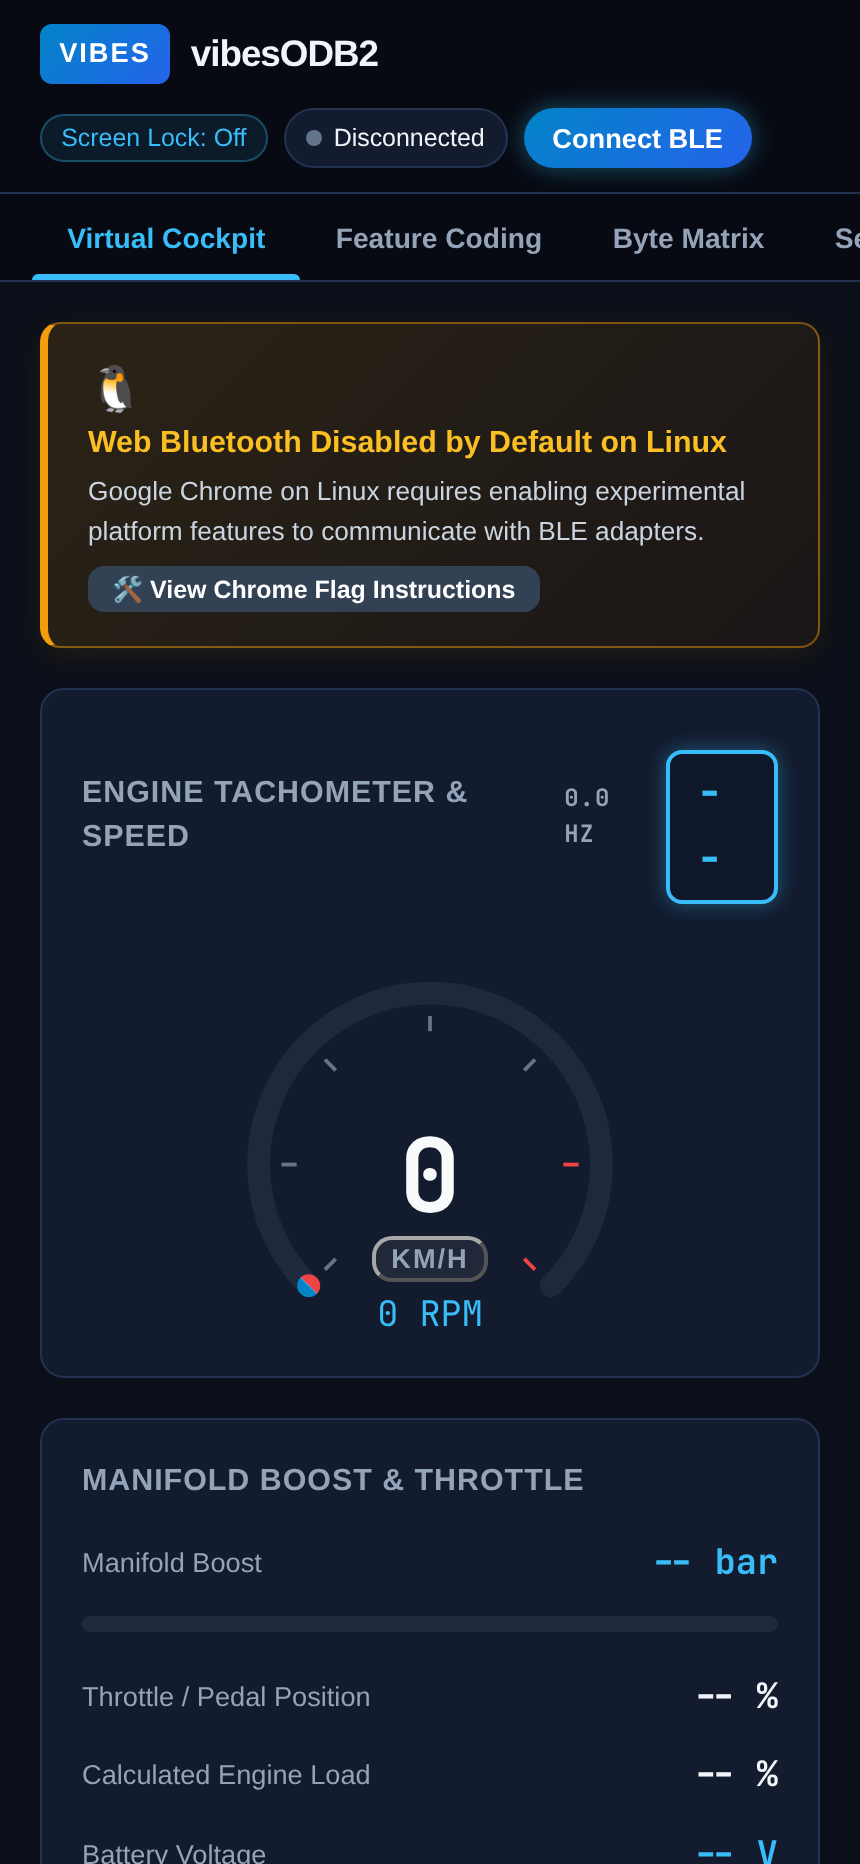
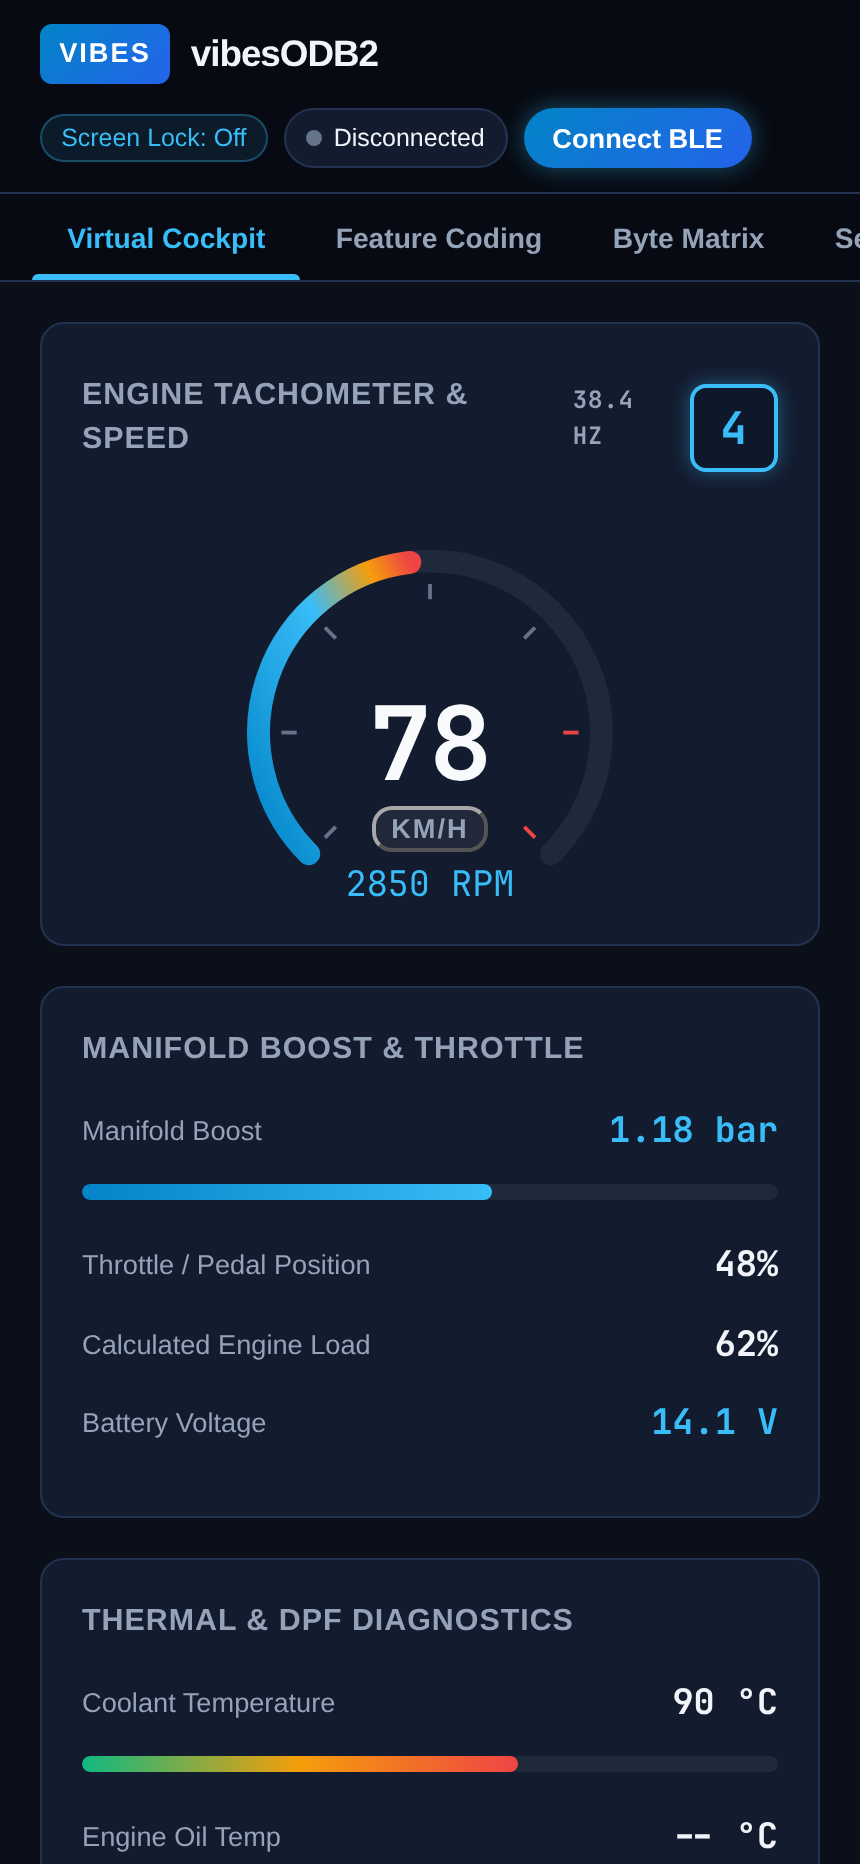
chore(docs): clean up obsolete desktop screenshots and refresh PWA mobile screenshots

diff --git a/scripts/generate_screenshots.py b/scripts/generate_screenshots.py
@@ -72,6 +72,7 @@ async def capture_cdp_screens(port: int = 8139):
             # -------------------------------------------------------------
             # 1. MOBILE CAPTURES (430 x 932)
             # -------------------------------------------------------------
+            # Emulate modern mobile device (iPhone 14 / Pixel 8: 430 x 932 @ 2x)
             await send_cdp(ws, msg_id, "Emulation.setDeviceMetricsOverride", {
                 "width": 430,
                 "height": 932,
@@ -80,237 +81,123 @@ async def capture_cdp_screens(port: int = 8139):
             })
             msg_id += 1
 
+            # Set mobile user agent to prevent desktop Linux warning banner
+            await send_cdp(ws, msg_id, "Emulation.setUserAgentOverride", {
+                "userAgent": "Mozilla/5.0 (Linux; Android 14; Pixel 8 Pro) AppleWebKit/537.36 (KHTML, like Gecko) Chrome/128.0.6613.88 Mobile Safari/537.36",
+                "platform": "Android"
+            })
+            msg_id += 1
+
             # Navigate to local PWA server
             await send_cdp(ws, msg_id, "Page.navigate", {"url": f"http://127.0.0.1:{port}/index.html"})
             msg_id += 1
-            await asyncio.sleep(1.5)
+            await asyncio.sleep(1.8)
 
-            # A. Cockpit
-            await send_cdp(ws, msg_id, "Runtime.evaluate", {"expression": "window.__VIBES_APP__.switchTab('tab-cockpit', false)"})
+            # -------------------------------------------------------------
+            # A. Digital Cockpit (with realistic live driving telemetry)
+            # -------------------------------------------------------------
+            await send_cdp(ws, msg_id, "Runtime.evaluate", {"expression": """
+                window.__VIBES_APP__.switchTab('tab-cockpit', false);
+                window.__VIBES_APP__.renderTelemetry({
+                    vehicle_speed_kmh: 78,
+                    engine_rpm: 2850,
+                    engaged_gear: '4',
+                    boost_pressure_bar: 1.18,
+                    throttle_position_pct: 48,
+                    engine_load_pct: 62,
+                    coolant_temp_c: 90.0,
+                    intake_air_temp_c: 24.0,
+                    exhaust_gas_temp_c: 440.0,
+                    dpf_soot_load_g: 12.8,
+                    fuel_rail_pressure_bar: 1350.0,
+                    battery_voltage: 14.1
+                });
+                window.__VIBES_APP__.renderHz(38.4);
+                const notice = document.getElementById('cockpit-ble-notice');
+                if (notice) notice.style.display = 'none';
+            """})
             msg_id += 1
-            await asyncio.sleep(0.4)
+            await asyncio.sleep(0.5)
             res = await send_cdp(ws, msg_id, "Page.captureScreenshot")
             msg_id += 1
             out_cockpit = OUTPUT_DIR / "pwa_mobile_cockpit.png"
             out_cockpit.write_bytes(base64.b64decode(res["result"]["data"]))
             print(f"✓ Captured: {out_cockpit.name} ({os.path.getsize(out_cockpit):,} bytes)")
 
-            # B. Feature Coding
-            await send_cdp(ws, msg_id, "Runtime.evaluate", {"expression": "window.__VIBES_APP__.switchTab('tab-coding', false)"})
+            # -------------------------------------------------------------
+            # B. Feature Coding (with compatibility filters and badges)
+            # -------------------------------------------------------------
+            await send_cdp(ws, msg_id, "Runtime.evaluate", {"expression": """
+                window.__VIBES_APP__.switchTab('tab-coding', false);
+                window.__VIBES_APP__.renderFeatureList();
+            """})
             msg_id += 1
-            await asyncio.sleep(0.4)
+            await asyncio.sleep(0.5)
             res = await send_cdp(ws, msg_id, "Page.captureScreenshot")
             msg_id += 1
             out_coding = OUTPUT_DIR / "pwa_mobile_coding.png"
             out_coding.write_bytes(base64.b64decode(res["result"]["data"]))
             print(f"✓ Captured: {out_coding.name} ({os.path.getsize(out_coding):,} bytes)")
 
-            # C. Service & Maintenance
+            # -------------------------------------------------------------
+            # C. Service & Maintenance (SRI Reset, Battery, EPB, Mileage)
+            # -------------------------------------------------------------
             await send_cdp(ws, msg_id, "Runtime.evaluate", {"expression": "window.__VIBES_APP__.switchTab('tab-service', false)"})
             msg_id += 1
-            await asyncio.sleep(0.4)
+            await asyncio.sleep(0.5)
             res = await send_cdp(ws, msg_id, "Page.captureScreenshot")
             msg_id += 1
             out_service = OUTPUT_DIR / "pwa_mobile_service.png"
             out_service.write_bytes(base64.b64decode(res["result"]["data"]))
             print(f"✓ Captured: {out_service.name} ({os.path.getsize(out_service):,} bytes)")
 
-            # D. Byte Matrix
+            # -------------------------------------------------------------
+            # D. Interactive Byte Matrix Buffer
+            # -------------------------------------------------------------
             await send_cdp(ws, msg_id, "Runtime.evaluate", {"expression": "window.__VIBES_APP__.switchTab('tab-matrix', false)"})
             msg_id += 1
-            await asyncio.sleep(0.4)
+            await asyncio.sleep(0.5)
             res = await send_cdp(ws, msg_id, "Page.captureScreenshot")
             msg_id += 1
             out_matrix = OUTPUT_DIR / "pwa_mobile_matrix.png"
             out_matrix.write_bytes(base64.b64decode(res["result"]["data"]))
             print(f"✓ Captured: {out_matrix.name} ({os.path.getsize(out_matrix):,} bytes)")
 
-            # E. Fault Codes (DTCs)
+            # -------------------------------------------------------------
+            # E. Fault Code Scanner (DTCs)
+            # -------------------------------------------------------------
             await send_cdp(ws, msg_id, "Runtime.evaluate", {"expression": "window.__VIBES_APP__.switchTab('tab-dtcs', false)"})
             msg_id += 1
-            await asyncio.sleep(0.4)
+            await asyncio.sleep(0.5)
             res = await send_cdp(ws, msg_id, "Page.captureScreenshot")
             msg_id += 1
             out_dtcs = OUTPUT_DIR / "pwa_mobile_dtcs.png"
             out_dtcs.write_bytes(base64.b64decode(res["result"]["data"]))
             print(f"✓ Captured: {out_dtcs.name} ({os.path.getsize(out_dtcs):,} bytes)")
 
-            # F. Safety Audit Modal (Mobile)
-            await send_cdp(ws, msg_id, "Runtime.evaluate", {"expression": "window.__VIBES_APP__.promptSafetyAudit({ featureName: 'Scandinavian DRL', modifiedBytes: new Uint8Array([0x30, 0xA0, 0x05, 0x00, 0x40, 0x80, 0x00, 0x00, 0x00, 0x01, 0x03, 0x04, 0x01, 0x00, 0x01, 0, 0, 0, 0, 0, 0, 0, 0, 0, 0, 0, 0, 0, 0, 0]) })"})
+            # -------------------------------------------------------------
+            # F. Pre-Flash Safety Audit Modal
+            # -------------------------------------------------------------
+            await send_cdp(ws, msg_id, "Runtime.evaluate", {"expression": """
+                window.__VIBES_APP__.promptSafetyAudit({
+                    featureName: 'Scandinavian DRL (Rear Tail Lights Active with DRL)',
+                    modifiedBytes: new Uint8Array([0x30, 0xA0, 0x05, 0x00, 0x40, 0x80, 0x00, 0x00, 0x00, 0x01, 0x03, 0x04, 0x01, 0x00, 0x01, 0, 0, 0, 0, 0, 0, 0, 0, 0, 0, 0, 0, 0, 0, 0])
+                });
+            """})
             msg_id += 1
-            await asyncio.sleep(0.4)
+            await asyncio.sleep(0.5)
             res = await send_cdp(ws, msg_id, "Page.captureScreenshot")
             msg_id += 1
             out_modal = OUTPUT_DIR / "pwa_mobile_safety_modal.png"
             out_modal.write_bytes(base64.b64decode(res["result"]["data"]))
             print(f"✓ Captured: {out_modal.name} ({os.path.getsize(out_modal):,} bytes)")
 
-            # -------------------------------------------------------------
-            # 2. DESKTOP CAPTURES (1300 x 850)
-            # -------------------------------------------------------------
-            await send_cdp(ws, msg_id, "Emulation.setDeviceMetricsOverride", {
-                "width": 1300,
-                "height": 850,
-                "deviceScaleFactor": 1,
-                "mobile": False
-            })
-            msg_id += 1
-
-            # Desktop Cockpit
-            await send_cdp(ws, msg_id, "Runtime.evaluate", {"expression": "window.__VIBES_APP__.switchTab('tab-cockpit', false)"})
-            msg_id += 1
-            await asyncio.sleep(0.4)
-            res = await send_cdp(ws, msg_id, "Page.captureScreenshot")
-            msg_id += 1
-            out_d_telemetry = OUTPUT_DIR / "vibesodb2_telemetry.png"
-            out_d_telemetry.write_bytes(base64.b64decode(res["result"]["data"]))
-            print(f"✓ Captured: {out_d_telemetry.name} ({os.path.getsize(out_d_telemetry):,} bytes)")
-
-            # Desktop Feature Coding
-            await send_cdp(ws, msg_id, "Runtime.evaluate", {"expression": "window.__VIBES_APP__.switchTab('tab-coding', false)"})
-            msg_id += 1
-            await asyncio.sleep(0.4)
-            res = await send_cdp(ws, msg_id, "Page.captureScreenshot")
-            msg_id += 1
-            out_d_features = OUTPUT_DIR / "vibesodb2_features.png"
-            out_d_features.write_bytes(base64.b64decode(res["result"]["data"]))
-            print(f"✓ Captured: {out_d_features.name} ({os.path.getsize(out_d_features):,} bytes)")
-
-            # Desktop Byte Matrix
-            await send_cdp(ws, msg_id, "Runtime.evaluate", {"expression": "window.__VIBES_APP__.switchTab('tab-matrix', false)"})
-            msg_id += 1
-            await asyncio.sleep(0.4)
-            res = await send_cdp(ws, msg_id, "Page.captureScreenshot")
-            msg_id += 1
-            out_d_matrix = OUTPUT_DIR / "vibesodb2_byte_matrix.png"
-            out_d_matrix.write_bytes(base64.b64decode(res["result"]["data"]))
-            print(f"✓ Captured: {out_d_matrix.name} ({os.path.getsize(out_d_matrix):,} bytes)")
-
-            # Desktop Backups
-            await send_cdp(ws, msg_id, "Runtime.evaluate", {"expression": "window.__VIBES_APP__.switchTab('tab-backups', false)"})
-            msg_id += 1
-            await asyncio.sleep(0.4)
-            res = await send_cdp(ws, msg_id, "Page.captureScreenshot")
-            msg_id += 1
-            out_d_backups = OUTPUT_DIR / "vibesodb2_backups.png"
-            out_d_backups.write_bytes(base64.b64decode(res["result"]["data"]))
-            print(f"✓ Captured: {out_d_backups.name} ({os.path.getsize(out_d_backups):,} bytes)")
-
-            # Desktop Safety Modal
-            await send_cdp(ws, msg_id, "Runtime.evaluate", {"expression": "window.__VIBES_APP__.promptSafetyAudit({ featureName: 'Scandinavian DRL', modifiedBytes: new Uint8Array([0x30, 0xA0, 0x05, 0x00, 0x40, 0x80, 0x00, 0x00, 0x00, 0x01, 0x03, 0x04, 0x01, 0x00, 0x01, 0, 0, 0, 0, 0, 0, 0, 0, 0, 0, 0, 0, 0, 0, 0]) })"})
-            msg_id += 1
-            await asyncio.sleep(0.4)
-            res = await send_cdp(ws, msg_id, "Page.captureScreenshot")
-            msg_id += 1
-            out_d_modal = OUTPUT_DIR / "vibesodb2_safety_modal.png"
-            out_d_modal.write_bytes(base64.b64decode(res["result"]["data"]))
-            print(f"✓ Captured: {out_d_modal.name} ({os.path.getsize(out_d_modal):,} bytes)")
-
     finally:
         chrome_proc.terminate()
 
 
-def generate_terminal_hud_screenshot(output_path: Path):
-    from rich.console import Console
-    from rich.panel import Panel
-
-    console = Console(record=True, width=90)
-
-    spd = 84
-    mph = spd * 0.621371
-    rpm = 3450
-    gear_str = "Gear 3"
-    boost = 1.25
-    coolant = 89.5
-    iat = 28.0
-    fuel = 1380.0
-    throttle = 65.0
-    egt = 485.0
-    soot = 14.82
-    hz = 38.4
-    lat = 26.2
-    pkts = 1842
-
-    rpm_ratio = min(1.0, max(0.0, rpm / 6000.0))
-    filled = int(rpm_ratio * 30)
-    rpm_color = "yellow"
-    rpm_bar = f"[{rpm_color}]{'█' * filled}[/{rpm_color}]{'░' * (30 - filled)}"
-
-    boost_ratio = min(1.0, max(0.0, boost / 2.0))
-    b_filled = int(boost_ratio * 20)
-    boost_color = "cyan"
-    boost_bar = f"[{boost_color}]{'█' * b_filled}[/{boost_color}]{'░' * (20 - b_filled)}"
-
-    content = f"""
- [bold cyan]SPEED:[/bold cyan]  [bold white]{int(spd):3d}[/bold white] km/h  [dim]({mph:4.1f} mph)[/dim]          [bold magenta]GEAR:[/bold magenta] [bold white]{gear_str}[/bold white]   [bold yellow]THROTTLE:[/bold yellow] [bold white]{throttle:4.1f}%[/bold white]
- [bold cyan]RPM:  [/bold cyan]  {rpm_bar}  [bold white]{int(rpm):4d}[/bold white] RPM
- [bold cyan]BOOST:[/bold cyan]  {boost_bar}  [bold white]{boost:4.2f}[/bold white] bar
-
- ────────────────────────────────────────────────────────────────────────
-  [dim]Coolant Temp:[/dim] [bold]{coolant:4.1f} °C[/bold]     [dim]Intake Air:[/dim]  [bold]{iat:4.1f} °C[/bold]     [dim]Fuel Rail:[/dim] [bold]{fuel:6.1f} bar[/bold]
-  [dim]DPF Soot:    [/dim] [bold]{soot:4.2f} g[/bold]      [dim]Turbo EGT: [/dim] [bold]{egt:4.1f} °C[/bold]     [dim]Voltage:  [/dim] [bold]12.6V[/bold]
- ────────────────────────────────────────────────────────────────────────
-  [dim]Telemetry Loop:[/dim] [bold green]{hz:4.1f} Hz[/bold green] | [dim]Latency:[/dim] [bold]{lat:4.1f} ms[/bold] | [dim]Packets:[/dim] [bold]{pkts}[/bold] | [dim yellow]Ctrl+C to stop[/dim yellow]
-"""
-    panel = Panel(
-        content.strip(),
-        title="[bold cyan]🏎 vibesODB2 Live Telemetry Dashboard HUD[/bold cyan]",
-        border_style="cyan",
-    )
-    console.print()
-    console.print(panel)
-    console.print()
-
-    html_str = console.export_html(inline_styles=True)
-    styled_html = f"""<!DOCTYPE html>
-<html>
-<head>
-<style>
-body {{
-    background-color: #0b0f19;
-    display: flex;
-    justify-content: center;
-    align-items: center;
-    min-height: 100vh;
-    margin: 0;
-    font-family: monospace;
-}}
-pre {{
-    background-color: #070a12;
-    padding: 2.5rem;
-    border-radius: 12px;
-    border: 1px solid #1e293b;
-    box-shadow: 0 25px 50px -12px rgba(0, 0, 0, 0.7);
-    font-size: 1.15rem;
-    line-height: 1.45;
-}}
-</style>
-</head>
-<body>
-{html_str}
-</body>
-</html>"""
-    temp_html = PROJECT_ROOT / "docs" / "images" / "temp_terminal.html"
-    temp_html.write_text(styled_html, encoding="utf-8")
-
-    cmd = [
-        CHROME_BIN,
-        "--headless=new",
-        "--no-sandbox",
-        "--disable-gpu",
-        "--window-size=1100,560",
-        "--virtual-time-budget=1000",
-        f"--screenshot={output_path}",
-        f"file://{temp_html.resolve()}",
-    ]
-    subprocess.run(cmd, check=True, stdout=subprocess.DEVNULL, stderr=subprocess.DEVNULL)
-    if temp_html.exists():
-        temp_html.unlink()
-    print(f"✓ Captured: {output_path.name} ({os.path.getsize(output_path):,} bytes)")
-
-
 def main():
-    print("Launching local PWA HTTP server for screenshot capture...")
+    print("Capturing fresh vibesODB2 PWA mobile screenshots via Chrome DevTools Protocol (CDP)...")
     port = 8139
     handler = functools.partial(http.server.SimpleHTTPRequestHandler, directory=str(PWA_DIR))
     server = http.server.ThreadingHTTPServer(("127.0.0.1", port), handler)
@@ -320,8 +207,7 @@ def main():
     try:
         time.sleep(0.8)
         asyncio.run(capture_cdp_screens(port))
-        generate_terminal_hud_screenshot(OUTPUT_DIR / "vibesodb2_terminal_hud.png")
-        print("\nAll mobile and desktop screenshots successfully captured via CDP!")
+        print("\nAll mobile screenshots successfully refreshed and verified!")
     finally:
         server.shutdown()
 
